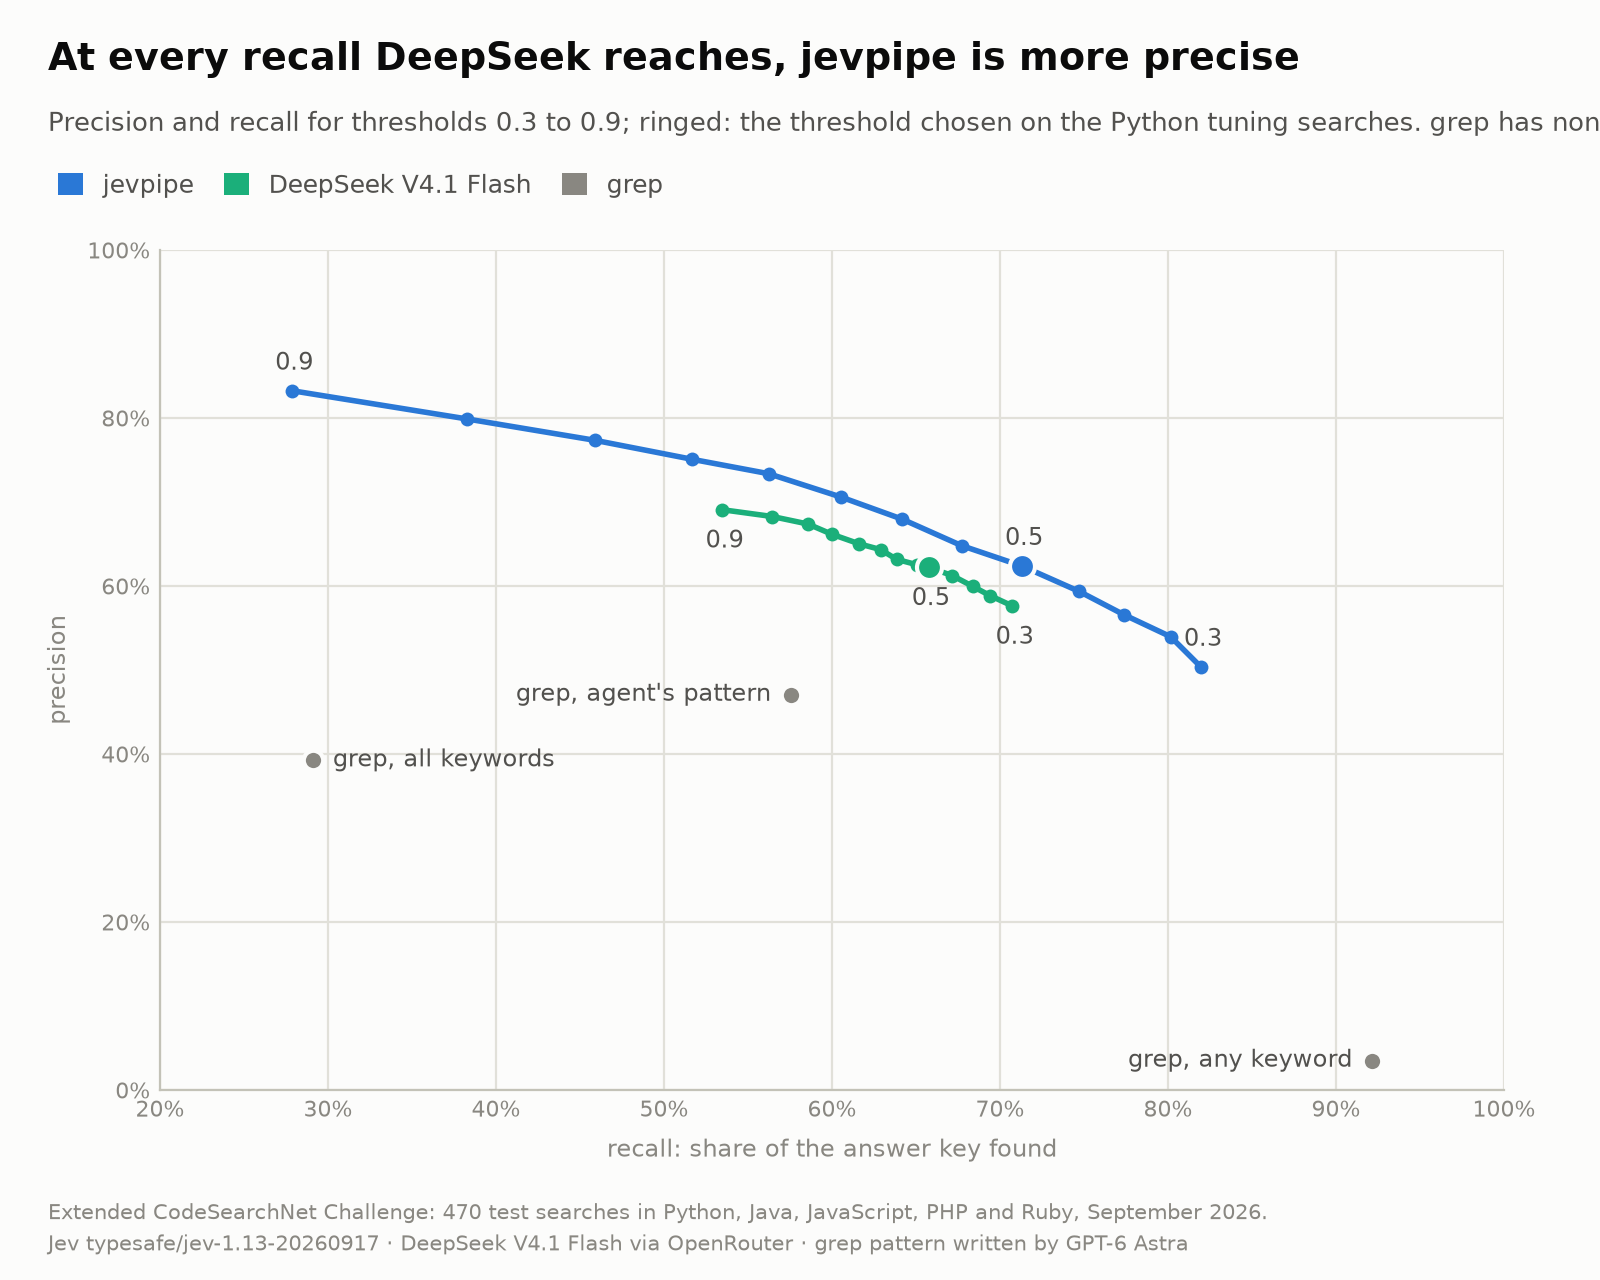
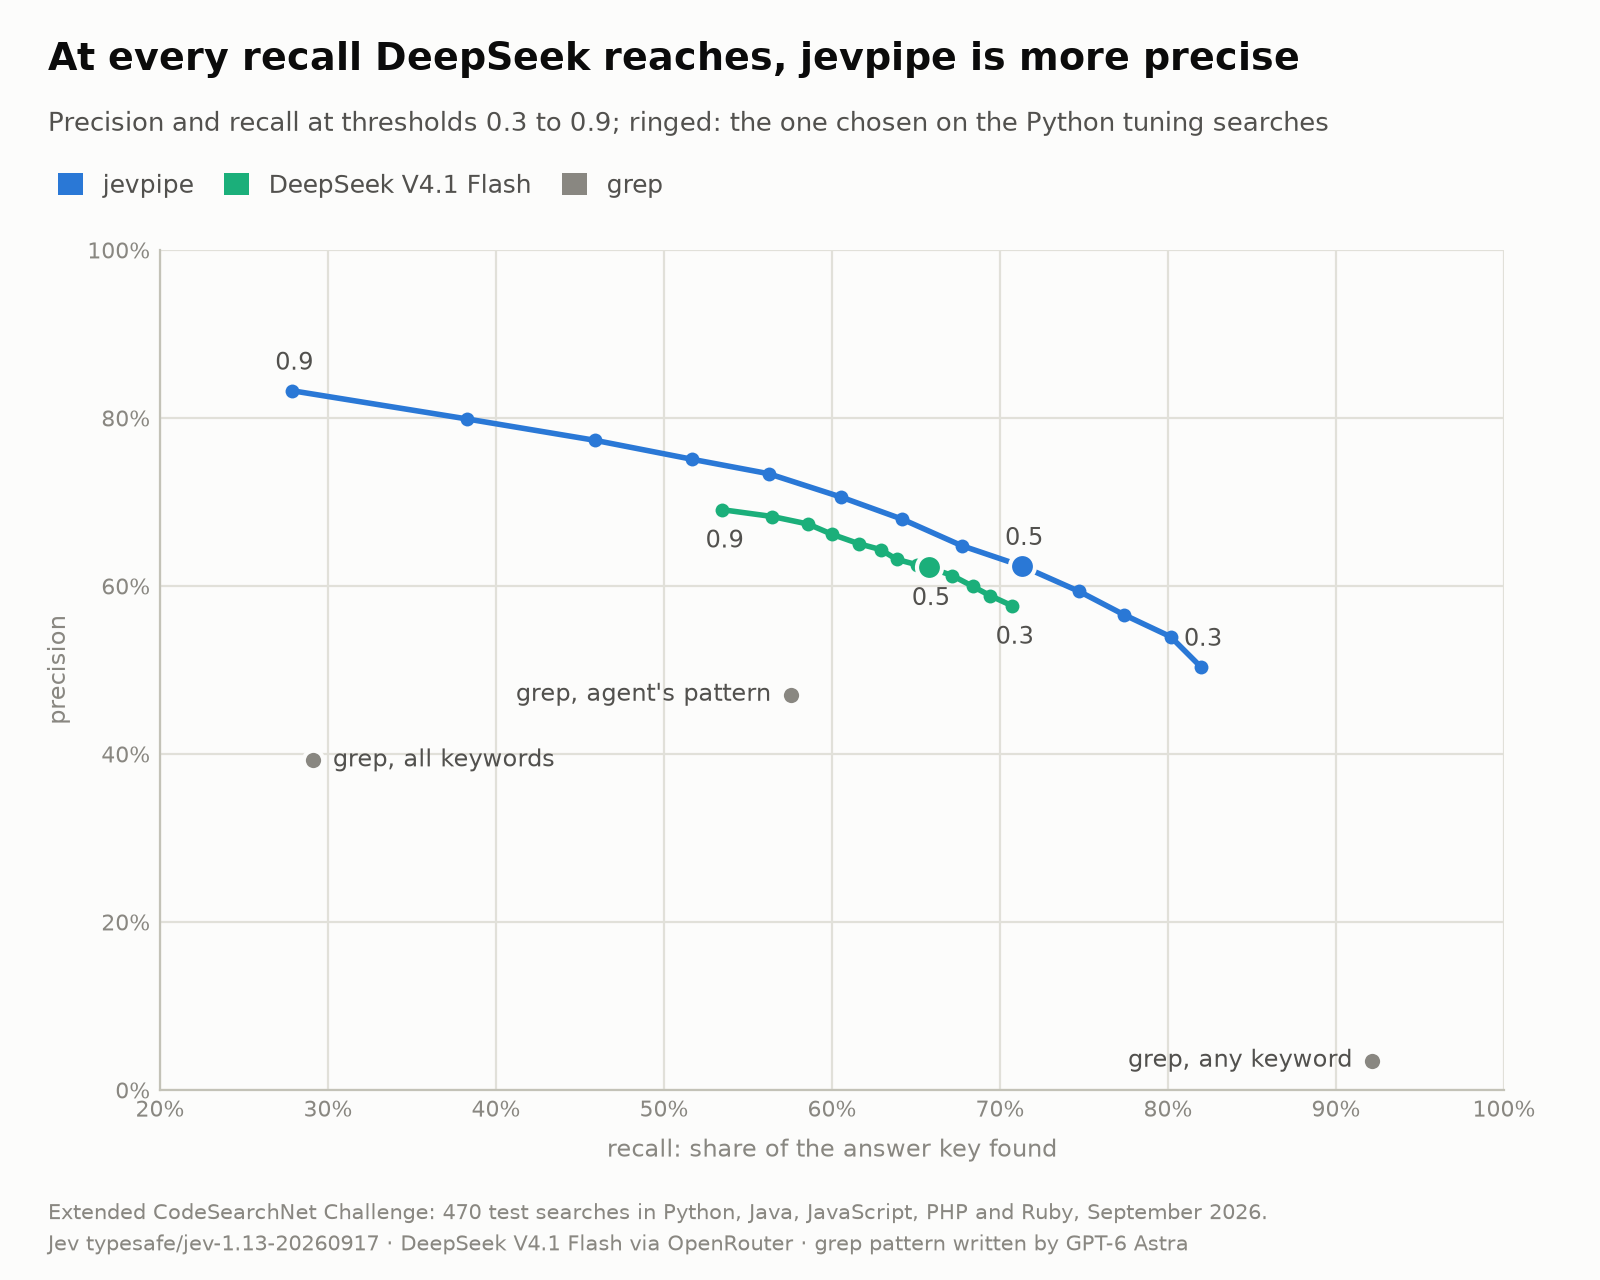
Fit the tradeoff chart's subtitle inside the figure (#10)
The subtitle ran past the right edge. The grep dots are labelled on
the chart, so the note about grep goes.

Changed region(s): [[0.4688, 0.0938, 1.0, 0.125], [0.1875, 0.0625, 0.4375, 0.125]]

diff --git a/bench/src/bench/charts.py b/bench/src/bench/charts.py
@@ -191,8 +191,8 @@ def _tradeoff(pooled: list[metrics.Scored]) -> figures.Tradeoff:
     lowest, highest = decisions.THRESHOLDS[0], decisions.THRESHOLDS[-1]
     header = style.Header(
         tradeoff_title(sweeps),
-        f"Precision and recall for thresholds {lowest} to {highest}; ringed: the threshold "
-        "chosen on the Python tuning searches. grep has none",
+        f"Precision and recall at thresholds {lowest} to {highest}; ringed: the one chosen on "
+        "the Python tuning searches",
         _footnote(pooled),
     )
     return figures.Tradeoff(header, curves, baselines)
